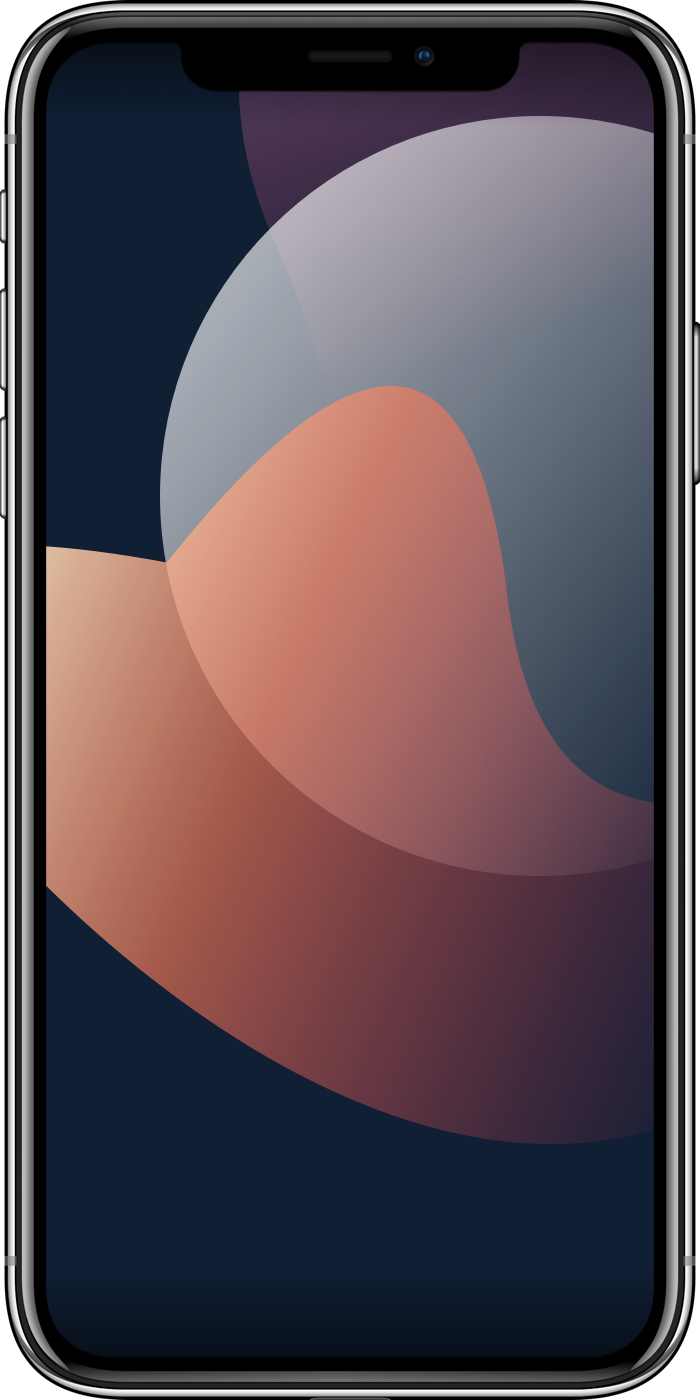
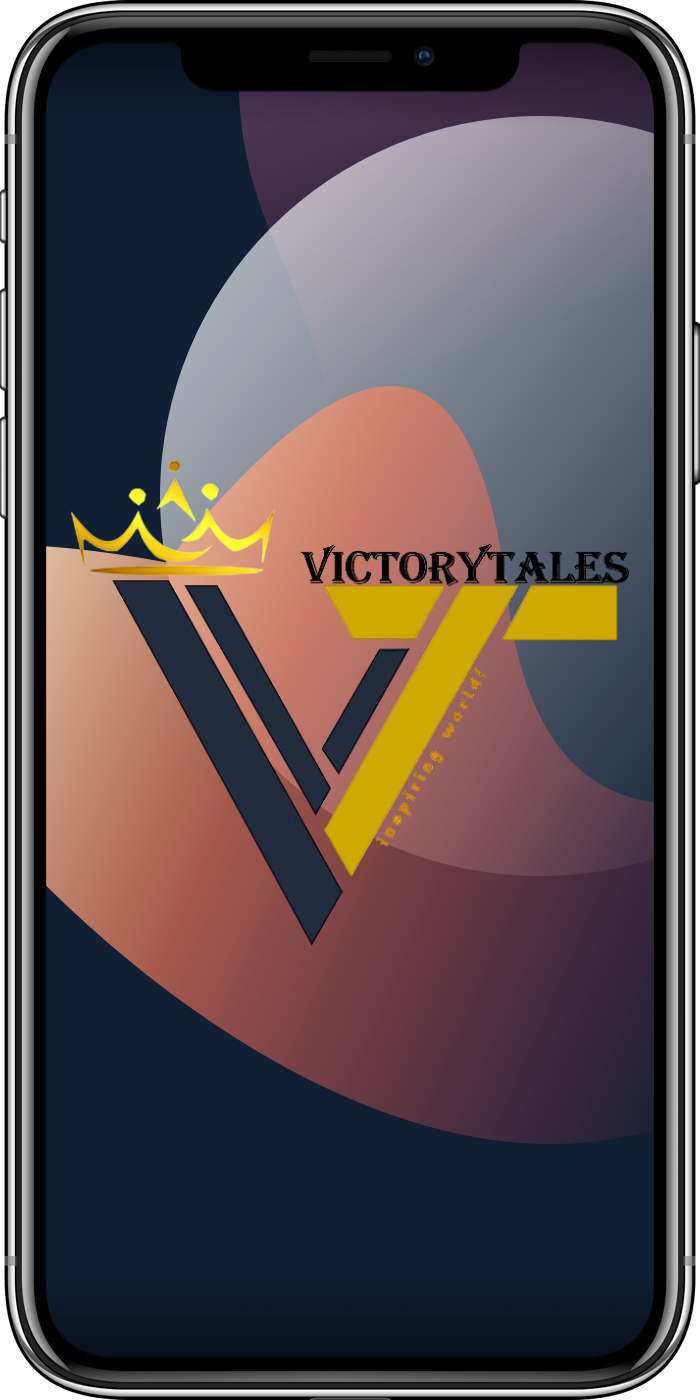
Made storage webspace

Changed region(s): [[0.09, 0.3071, 0.9, 0.6757]]

diff --git a/index.html b/index.html
@@ -4,10 +4,25 @@
     <meta charset="utf-8">
     <meta http-equiv="X-UA-Compatible" content="IE=edge">
     <meta name="viewport" content="width=device-width, initial-scale=1">
-    <title>Laurel Template</title>
+    <title>VictoryTales Storage</title>
     <link href="https://fonts.googleapis.com/css?family=Heebo:400,500,700|Playfair+Display:700" rel="stylesheet">
     <link rel="stylesheet" href="dist/css/style.css">
     <script src="https://unpkg.com/scrollreveal@4.0.0/dist/scrollreveal.min.js"></script>
+	<meta name="robots" content="noindex" />
+	<link rel="shortcut icon" type="image/png" href="https://static.wixstatic.com/media/de932a_95588bbae8764289950bc9c0040332a9~mv2.png" />
+
+
+	<!-- Global site tag (gtag.js) - Google Analytics -->
+	<script async src="https://www.googletagmanager.com/gtag/js?id=UA-165055955-1"></script>
+	<script>
+	window.dataLayer = window.dataLayer || [];
+	function gtag(){dataLayer.push(arguments);}
+	gtag('js', new Date());
+
+	gtag('config', 'UA-165055955-1');
+	</script>
+	<!--Google Analytics ends-->
+
 </head>
 <body class="is-boxed has-animations">
     <div class="body-wrap boxed-container">
@@ -18,7 +33,7 @@
                         <h1 class="m-0">
                             <a href="#">
 								<svg width="32" height="32" viewBox="0 0 32 32" xmlns="http://www.w3.org/2000/svg">
-									<title>Laurel</title>
+									<title>VictoryTales.com</title>
 								    <defs>
 								        <linearGradient x1="0%" y1="100%" x2="50%" y2="0%" id="logo-a">
 								            <stop stop-color="#F9425F" stop-opacity=".8" offset="0%"/>
@@ -47,9 +62,9 @@
                 <div class="container">
                     <div class="hero-inner">
 						<div class="hero-copy">
-	                        <h1 class="hero-title mt-0">Landing template for startups</h1>
-	                        <p class="hero-paragraph">Our landing page template works on all devices, so you only have to set it up once, and get beautiful results forever.</p>
-	                        <div class="hero-cta"><a class="button button-shadow" href="#">Learn more</a><a class="button button-primary button-shadow" href="#">Early access</a></div>
+	                        <h1 class="hero-title mt-0"><a href="">OneSpace</a></h1>
+	                        <p class="hero-paragraph">This is a <b><u>STORAGE</u></b> domain of <a href="https://www.victorytales.com?utm_source=storage+website&utm_medium=onespace&utm_campaign=OnceSpace" target="_blank">VictoryTales</a> which is an Online Inspirational portal that publishes the finest content around Personal development, Success Mantras, Interviews, Startup Stories, and Entrepreneurship. <br><br>At <a href="https://www.victorytales.com?utm_source=storage+website&utm_medium=onespace&utm_campaign=OnceSpace" target="_blank">VictoryTales</a>, we always strive to bring you meaningful and powerful stories from around the world to empower and motivate...</p>
+	                        <div class="hero-cta"><a class="button button-shadow" href="https://www.victorytales.com/contact?utm_source=storage+website&utm_medium=onespace&utm_campaign=OnceSpace" target="_blank">Contact us</a><a class="button button-primary button-shadow" href="https://www.victorytales.com/?utm_source=storage+website&utm_medium=onespace&utm_campaign=OnceSpace" target="_blank">Visit Website</a></div>
 						</div>
 						<div class="hero-app">
 							<div class="hero-app-illustration">
@@ -128,7 +143,7 @@
                     </div>
                 </div>
             </section>
-
+			<!--
             <section class="features section">
                 <div class="container">
 					<div class="features-inner section-inner has-bottom-divider">
@@ -299,7 +314,7 @@
                 <div class="container-sm">
                     <div class="media-inner section-inner">
                         <div class="media-header text-center">
-                            <h2 class="section-title mt-0">Meet Laurel</h2>
+                            <h2 class="section-title mt-0">Meet VictoryTales.com</h2>
                             <p class="section-paragraph mb-0">Lorem ipsum is common placeholder text used to demonstrate the graphic elements of a document or visual presentation.</p>
                         </div>
 						<div class="media-canvas">
@@ -354,7 +369,7 @@
                         </div>
                     </div>
                 </div>
-            </section>
+            </section>-->
         </main>
 
         <footer class="site-footer">
@@ -363,7 +378,7 @@
                     <div class="brand footer-brand">
                         <a href="#">
 							<svg width="32" height="32" viewBox="0 0 32 32" xmlns="http://www.w3.org/2000/svg">
-								<title>Laurel</title>
+								<title>OneSpace</title>
 								<defs>
 									<linearGradient x1="0%" y1="100%" x2="50%" y2="0%" id="logo-footer-a">
 										<stop stop-color="#F9425F" stop-opacity=".8" offset="0%"/>
@@ -384,21 +399,21 @@
                     </div>
                     <ul class="footer-links list-reset">
                         <li>
-                            <a href="#">Contact</a>
+                            <a href="https://www.victorytales.com/contact?utm_source=storage+website&utm_medium=onespace&utm_campaign=OnceSpace" target="_blank">Contact</a>
                         </li>
                         <li>
-                            <a href="#">About us</a>
+                            <a href="https://www.victorytales.com/about?utm_source=storage+website&utm_medium=onespace&utm_campaign=OnceSpace" target="_blank">About us</a>
                         </li>
                         <li>
-                            <a href="#">FAQ's</a>
+                            <a href="https://www.victorytales.com/interview?utm_source=storage+website&utm_medium=onespace&utm_campaign=OnceSpace" target="_blank">Interviews</a>
                         </li>
                         <li>
-                            <a href="#">Support</a>
+                            <a href="https://www.victorytales.com?utm_source=storage+website&utm_medium=onespace&utm_campaign=OnceSpace" target="_blank">Visit Website</a>
                         </li>
                     </ul>
                     <ul class="footer-social-links list-reset">
                         <li>
-                            <a href="#">
+                            <a href="https://www.facebook.com/VictoryTales">
                                 <span class="screen-reader-text">Facebook</span>
                                 <svg width="16" height="16" xmlns="http://www.w3.org/2000/svg">
                                     <path d="M6.023 16L6 9H3V6h3V4c0-2.7 1.672-4 4.08-4 1.153 0 2.144.086 2.433.124v2.821h-1.67c-1.31 0-1.563.623-1.563 1.536V6H13l-1 3H9.28v7H6.023z" fill="#FFF"/>
@@ -406,23 +421,16 @@
                             </a>
                         </li>
                         <li>
-                            <a href="#">
+                            <a href="https://twitter.com/VictoryTales">
                                 <span class="screen-reader-text">Twitter</span>
                                 <svg width="16" height="16" xmlns="http://www.w3.org/2000/svg">
                                     <path d="M16 3c-.6.3-1.2.4-1.9.5.7-.4 1.2-1 1.4-1.8-.6.4-1.3.6-2.1.8-.6-.6-1.5-1-2.4-1-1.7 0-3.2 1.5-3.2 3.3 0 .3 0 .5.1.7-2.7-.1-5.2-1.4-6.8-3.4-.3.5-.4 1-.4 1.7 0 1.1.6 2.1 1.5 2.7-.5 0-1-.2-1.5-.4C.7 7.7 1.8 9 3.3 9.3c-.3.1-.6.1-.9.1-.2 0-.4 0-.6-.1.4 1.3 1.6 2.3 3.1 2.3-1.1.9-2.5 1.4-4.1 1.4H0c1.5.9 3.2 1.5 5 1.5 6 0 9.3-5 9.3-9.3v-.4C15 4.3 15.6 3.7 16 3z" fill="#FFF"/>
                                 </svg>
                             </a>
                         </li>
-                        <li>
-                            <a href="#">
-                                <span class="screen-reader-text">Google</span>
-                                <svg width="16" height="16" xmlns="http://www.w3.org/2000/svg">
-                                    <path d="M7.9 7v2.4H12c-.2 1-1.2 3-4 3-2.4 0-4.3-2-4.3-4.4 0-2.4 2-4.4 4.3-4.4 1.4 0 2.3.6 2.8 1.1l1.9-1.8C11.5 1.7 9.9 1 8 1 4.1 1 1 4.1 1 8s3.1 7 7 7c4 0 6.7-2.8 6.7-6.8 0-.5 0-.8-.1-1.2H7.9z" fill="#FFF"/>
-                                </svg>
-                            </a>
-                        </li>
+                        
                     </ul>
-                    <div class="footer-copyright">&copy; 2018 Laurel, all rights reserved</div>
+                    <div class="footer-copyright">&copy; 2021 <a href="https://www.victorytales.com?utm_source=storage+website&utm_medium=onespace&utm_campaign=OnceSpace" target="_blank">VictoryTales.com</a>, all rights reserved</div>
                 </div>
             </div>
         </footer>

diff --git a/README.md b/README.md
@@ -1,6 +1,4 @@
-# Laurel
-
-A landing page template.
+A landing page of VictoryTales Media Storage space.
 
 * [Getting started](#getting-started)
 
